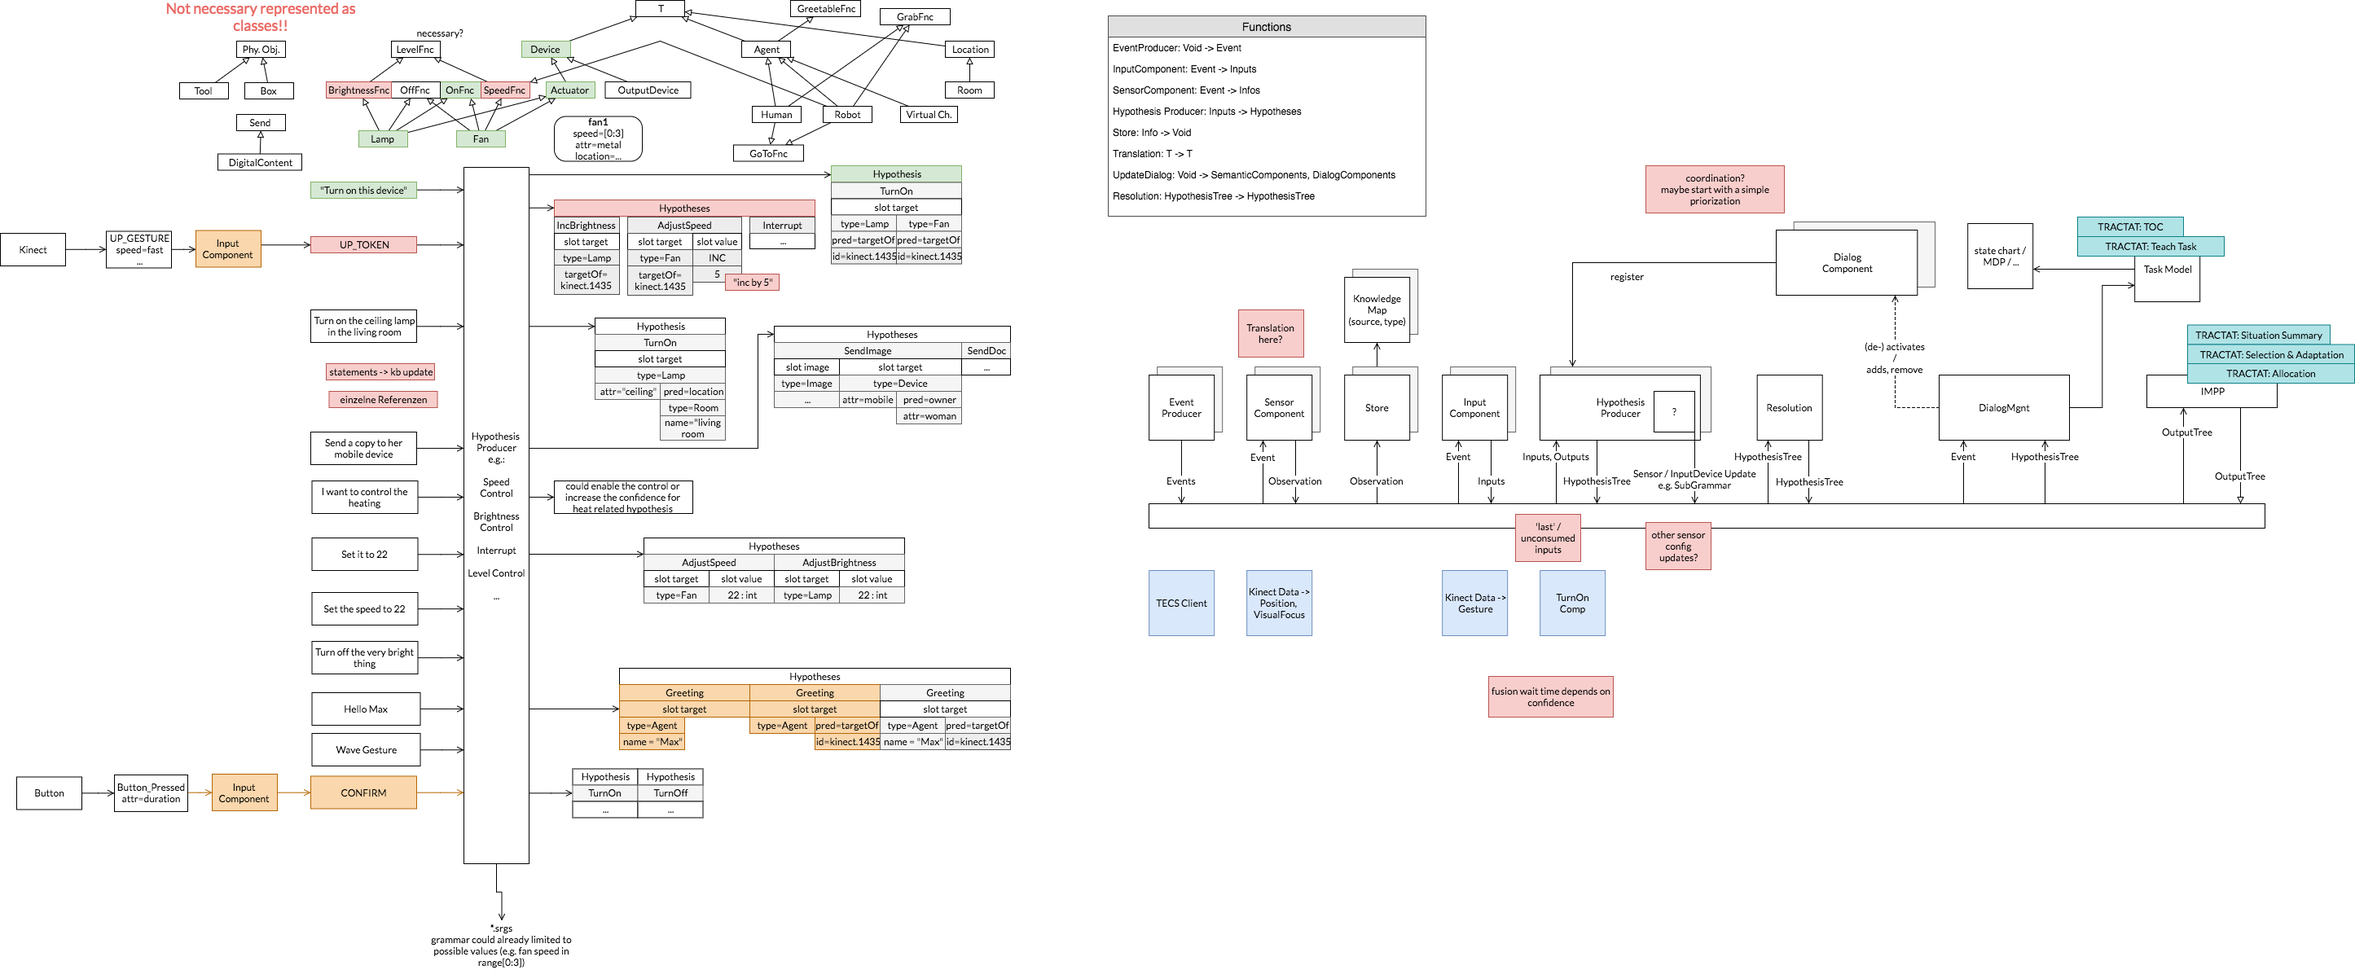
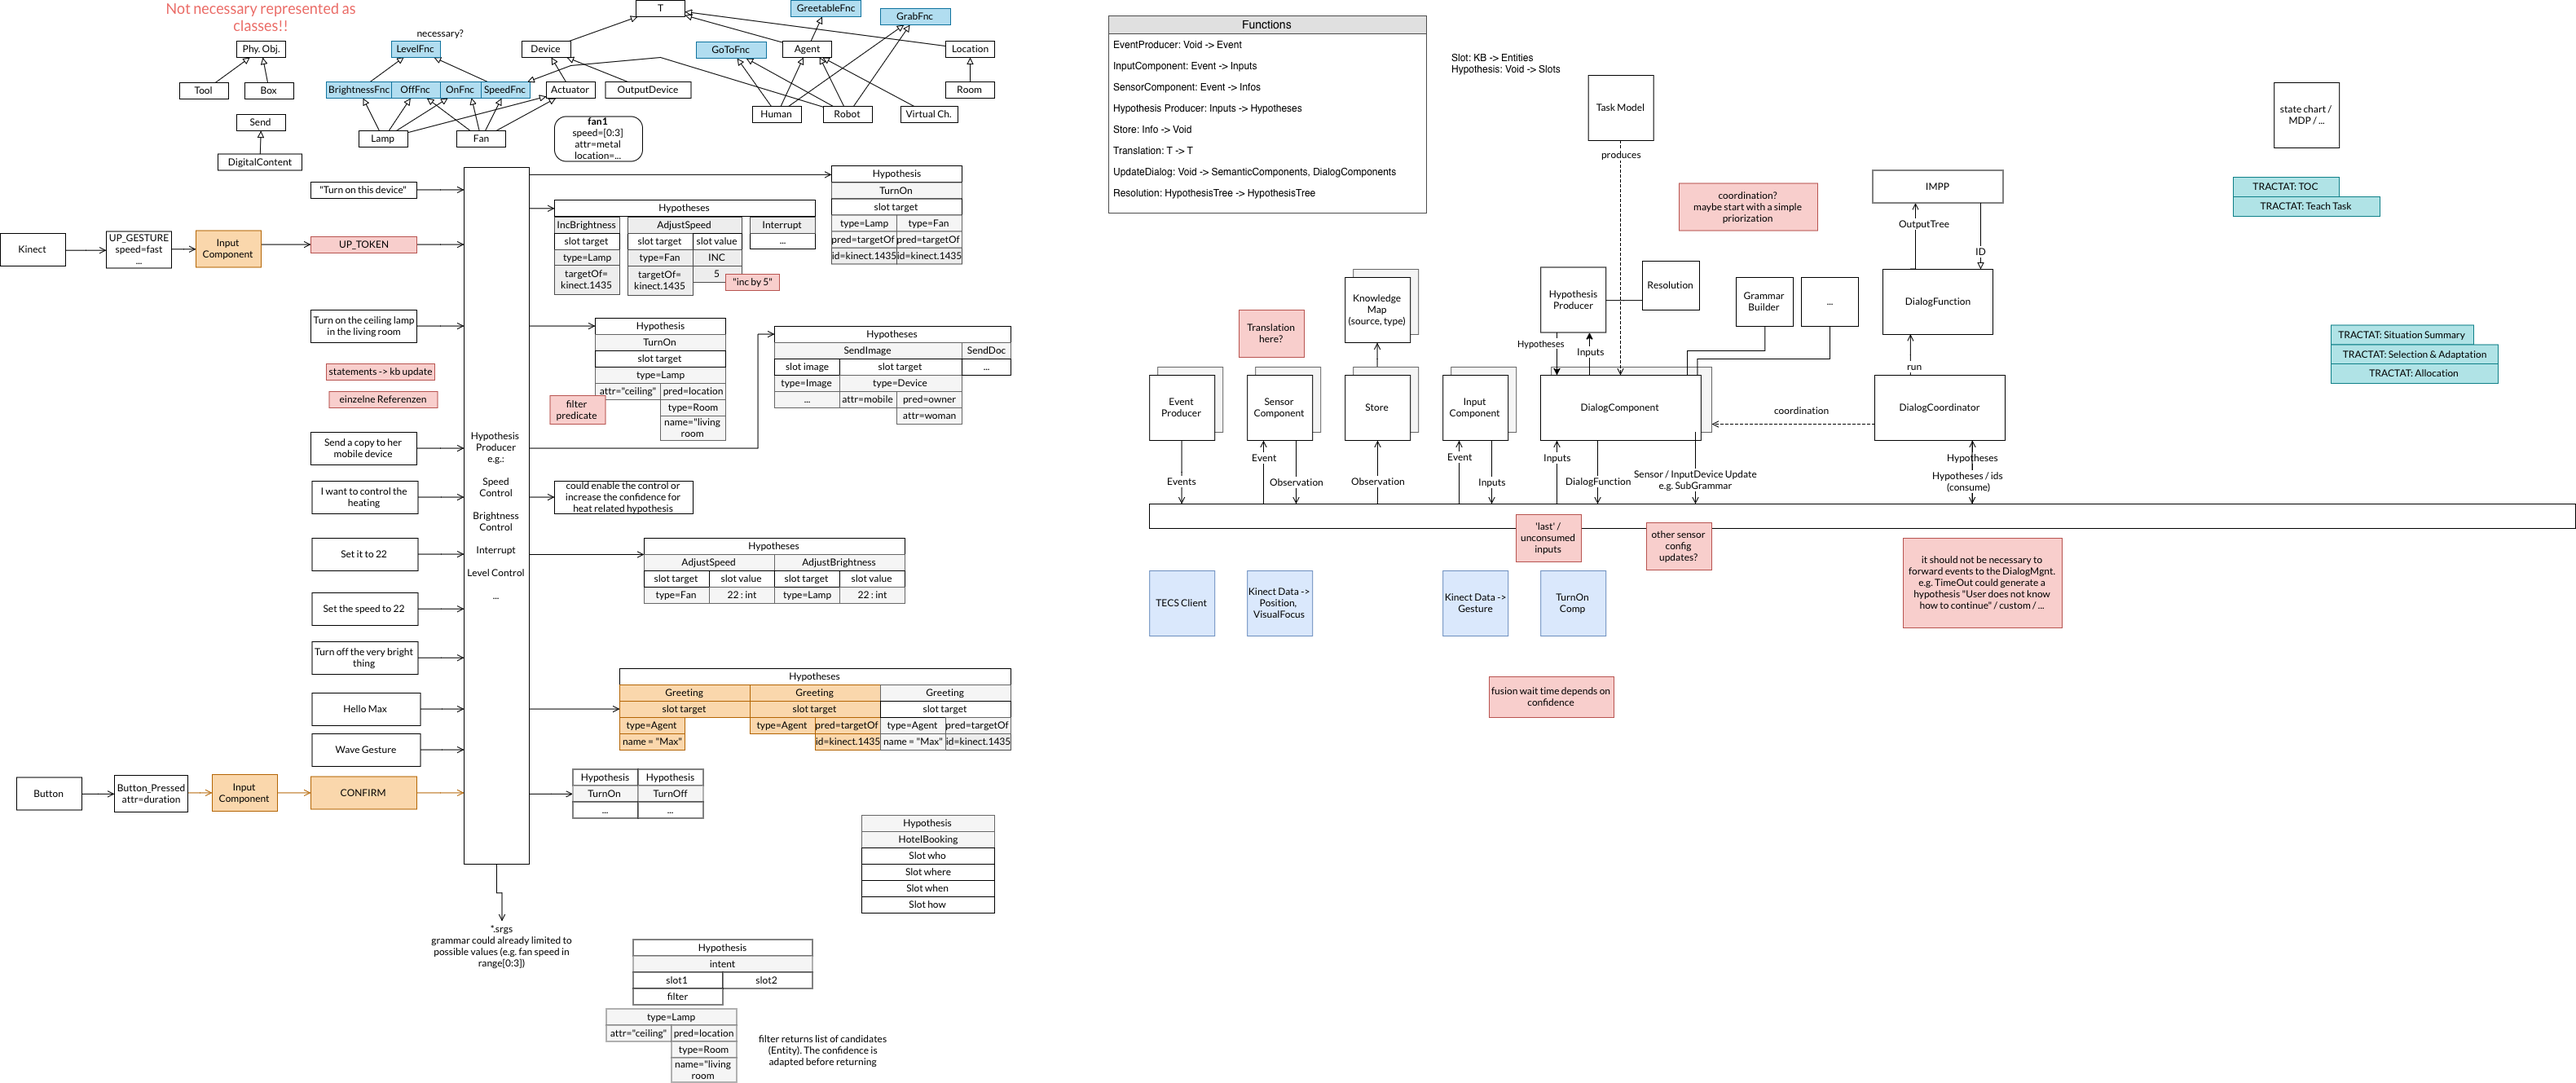
.

diff --git a/tocalog/core/src/main/java/de/dfki/tocalog/core/Slot.java b/tocalog/core/src/main/java/de/dfki/tocalog/core/Slot.java
@@ -1,22 +1,48 @@
 package de.dfki.tocalog.core;
 
-import de.dfki.tocalog.input.Input;
+import de.dfki.tocalog.kb.KnowledgeBase;
 import de.dfki.tocalog.model.Confidence;
 import de.dfki.tocalog.model.Entity;
 
-import java.util.List;
+import java.util.Arrays;
+import java.util.Collection;
 
 /**
  */
-public interface Slot {
-    Entity consumes(Input input);
-    void consume(Input input);
-    boolean isFilled();
-    //TODO optional?
+public abstract class Slot<T> { // TODO replace T with XYZ<T>
+    public String name;
 
-    interface Entity {
-        Confidence getConfidence();
-        Object getObject();
-        Slot getSlot();
+    public Slot() {
     }
+
+    public String getName() {
+        return name;
+    }
+
+    public abstract Collection<T> findMatches();
+
+    public static class Candidate<T> {
+        private T candidate;
+        private Confidence confidence;
+    }
+
+//    public static void main(String[] args) {
+//        KnowledgeBase kb;
+//        Slot<String> citySlot = new Slot<String>() {
+//            @Override
+//            public Collection<String> findMatches() {
+//                kb.getKnowledgeMap().
+//                return Arrays.asList("SB, NYC, sfsd");
+//            }
+//        };
+//
+//        DeviceSlot slot = new DeviceSlot(kb) {
+//            public Collection<Device> filter(Collection<Device> devices) {
+//                //filter
+//            }
+//        }
+//
+//        DateSlot, NumberSlot, LocationSlot;
+//
+//    }
 }

diff --git a/tocalog/sandbox/src/main/java/de/dfki/tocalog/HotelBookingDC.java b/tocalog/sandbox/src/main/java/de/dfki/tocalog/HotelBookingDC.java
@@ -1,10 +1,10 @@
 package de.dfki.tocalog;
 
+import a.Slot;
 import de.dfki.tocalog.core.*;
 import de.dfki.tocalog.input.Input;
 import de.dfki.tocalog.input.TextInput;
 import de.dfki.tocalog.kb.KnowledgeBase;
-import de.dfki.tocalog.model.Confidence;
 import de.dfki.tocalog.output.Imp;
 import de.dfki.tocalog.output.SpeechOutput;
 import de.dfki.tocalog.output.impp.Allocation;
@@ -30,7 +30,7 @@ public class HotelBookingDC implements DialogComponent {
     }
 
     protected Optional<DialogFunction> onTimeout(Object timeout) {
-
+        throw new RuntimeException("not impl");
     }
 
     protected Optional<DialogFunction> onTextInput(TextInput textInput) {
@@ -48,7 +48,7 @@ public class HotelBookingDC implements DialogComponent {
                     List<Slot.Entity> slotCandidates = getSlotCandidates(textInput);
                     slotCandidates.forEach(sc -> sc.getSlot().consume(textInput));
                 }
-            };
+            });
         }
 
 //        super.requestYesNo("...");
@@ -88,7 +88,6 @@ public class HotelBookingDC implements DialogComponent {
 //
 //
 
-        return Optional.empty();
     }
 
     protected List<Slot.Entity> getSlotCandidates(Input input) {

diff --git a/tocalog/core/src/main/java/de/dfki/tocalog/core/DialogApp.java b/tocalog/core/src/main/java/de/dfki/tocalog/core/DialogApp.java
@@ -1,5 +1,6 @@
 package de.dfki.tocalog.core;
 
+import a.Resolution;
 import de.dfki.tocalog.input.Input;
 import de.dfki.tocalog.kb.KnowledgeBase;
 import de.dfki.tocalog.output.Imp;
@@ -16,7 +17,7 @@ import java.util.function.Predicate;
  */
 public class DialogApp implements Runnable {
     private static final Logger log = LoggerFactory.getLogger(DialogApp.class);
-    private static final long INPUT_TIMEOUT = 5000L;
+    private static final long INPUT_TIMEOUT = 20000L;
     private final KnowledgeBase knowledgeBase;
     private final List<EventProducer> eventProducers;
     private final List<SensorComponent> sensorComponents;
@@ -122,7 +123,7 @@ public class DialogApp implements Runnable {
         private Resolution resolution;
         private Object monitor = new Object();
         private List<DialogComponent> dialogComponents = new ArrayList<>();
-        private DialogCoordinator dialogCoordinator;
+        private DialogCoordinator dialogCoordinator = new SimpleDialogCoordinator();
 
 
         protected Builder() {

diff --git a/tocalog/core/src/main/java/de/dfki/tocalog/core/Hypothesis.java b/tocalog/core/src/main/java/de/dfki/tocalog/core/Hypothesis.java
@@ -2,7 +2,6 @@ package de.dfki.tocalog.core;
 
 import de.dfki.tocalog.input.Input;
 import de.dfki.tocalog.kb.KnowledgeBase;
-import de.dfki.tocalog.model.Device;
 import de.dfki.tocalog.model.Entity;
 
 import java.util.*;
@@ -52,25 +51,15 @@ public class Hypothesis {
         return count;
     }
 
+    /**
+     * @return The inputs this hypothesis is based on.
+     */
     public Set<String> getInputs() {
         return inputs;
     }
 
     interface Query<T extends Entity> {
         Collection<T> findMatches(KnowledgeBase kb);
-    }
-
-    public static abstract class Slot<T extends Entity> {
-        private String name;
-
-        public Slot() {
-        }
-
-        public String getName() {
-            return name;
-        }
-
-        public abstract Collection<T> findMatches(KnowledgeBase kb);
     }
 
     public static Builder build(String intent) {

diff --git a/tocalog/core/src/main/java/de/dfki/tocalog/core/SimpleDialogCoordinator.java b/tocalog/core/src/main/java/de/dfki/tocalog/core/SimpleDialogCoordinator.java
@@ -1,0 +1,24 @@
+package de.dfki.tocalog.core;
+
+import java.util.ArrayList;
+import java.util.Collections;
+import java.util.Comparator;
+import java.util.List;
+import java.util.stream.Collectors;
+
+/**
+ */
+public class SimpleDialogCoordinator implements DialogCoordinator {
+    @Override
+    public List<DialogFunction> coordinate(List<DialogFunction> dialogFunctions) {
+        List<DialogFunction> sortedDf = dialogFunctions.stream()
+                .sorted(Comparator.comparingDouble(df -> df.getConfidence().getConfidence()))
+                .collect(Collectors.toList());
+        if (sortedDf.isEmpty()) {
+            return Collections.EMPTY_LIST;
+        }
+        ArrayList<DialogFunction> result = new ArrayList<>();
+        result.add(sortedDf.get(sortedDf.size() - 1));
+        return result;
+    }
+}

diff --git a/tocalog/core/src/main/java/de/dfki/tocalog/model/PersonHandler.java b/tocalog/core/src/main/java/de/dfki/tocalog/model/PersonHandler.java
@@ -1,0 +1,31 @@
+package de.dfki.tocalog.model;
+
+import java.util.HashMap;
+import java.util.Map;
+import java.util.Optional;
+
+/**
+ */
+public class PersonHandler {
+
+    public static Optional<Integer> findAge(Map<String, Object> data) {
+        return Optional.ofNullable(getAge(data));
+    }
+
+    public static Integer getAge(Map<String, Object> data) {
+        return (Integer) data.get("age");
+    }
+    public static void setAge(Map<String, Object> data, int age) {
+        data.put("age", age);
+    }
+
+    public static void main(String[] args) {
+        Map<String, Object> person = new HashMap<>();
+        Map<String, Object> building = new HashMap<>();
+        setAge(building, 123);
+
+        if(findAge(person).orElse(0) > 240) {
+            //
+        }
+    }
+}

diff --git a/tocalog/core/src/main/java/de/dfki/tocalog/core/DialogFunction.java b/tocalog/core/src/main/java/de/dfki/tocalog/core/DialogFunction.java
@@ -7,18 +7,22 @@ import java.util.Collection;
 import java.util.Optional;
 
 /**
+ * TODO more meta-info, uses IMP;
  */
 public interface DialogFunction extends Runnable {
-    default Optional<Confidence> getConfidence() { //TODO maybe
-        return Optional.empty();
+    default Confidence getConfidence() {
+        return new Confidence(0.5); //TODO value
     }
 
-    default Optional<Confidence> getPriorty() { return Optional.empty(); }
+//    default Optional<Confidence> getPriorty() { return Optional.empty(); }
 
     /**
      * @return All inputs that will be / were consumed by this dialog function
      */
     Collection<Input> consumedInputs();
 
+    /**
+     * @return The object which created the DialogFunction e.g. DialogComponent
+     */
     Object getOrigin();
 }

diff --git a/tocalog/sandbox/src/main/java/de/dfki/tocalog/LightControlComponent.java b/tocalog/sandbox/src/main/java/de/dfki/tocalog/LightControlComponent.java
@@ -38,7 +38,7 @@ public class LightControlComponent implements DialogComponent {
             return Optional.empty();
         }
 
-        Optional<Hypothesis.Slot> slot = h.getSlot("target");
+        Optional<Slot> slot = h.getSlot("target");
         if (!slot.isPresent()) {
             log.warn("could find slot 'target' in {} for {}", h, this.getClass().getSimpleName());
             return Optional.empty();
@@ -57,11 +57,7 @@ public class LightControlComponent implements DialogComponent {
             return Optional.empty();
         }
 
-        return Optional.of(() -> {
-            for (Device device : devices) {
-                log.info("turning on \"{}\"", device);
-            }
-        });
+        return null;
     }
 
     protected void handleTurnOn() {

diff --git a/tocalog/core/src/main/java/de/dfki/tocalog/model/Confidence.java b/tocalog/core/src/main/java/de/dfki/tocalog/model/Confidence.java
@@ -21,8 +21,10 @@ public class Confidence implements Comparable<Confidence>{
         return confidence;
     }
 
-    public static Confidence HIGH = new Confidence(0.9);
-    public static Confidence VERY_HIGH = new Confidence(1.0);
+    public static final Confidence HIGH = new Confidence(0.9);
+    public static final Confidence VERY_HIGH = new Confidence(1.0);
+//    public static final Confidence UNKNOWN = new Confidence(0);
+
 
     @Override
     public int compareTo(Confidence o) {

diff --git a/tocalog/core/src/main/java/de/dfki/tocalog/output/impp/Allocation.java b/tocalog/core/src/main/java/de/dfki/tocalog/output/impp/Allocation.java
@@ -23,9 +23,12 @@ public class Allocation {
         return allocationState;
     }
 
-    public void updateAllocationState() {
+    protected void updateAllocationState() {
         AllocationStateVisitor asv = new AllocationStateVisitor();
-        this.allocationState = asv.visit(this);
+        AllocationState as = asv.visit(this);
+        synchronized (this) {
+            this.allocationState = as;
+        }
     }
 
     public Map<String, String> getAllocationsIds() {

diff --git a/tocalog/core/src/main/java/de/dfki/tocalog/output/Imp.java b/tocalog/core/src/main/java/de/dfki/tocalog/output/Imp.java
@@ -21,6 +21,15 @@ public class Imp {
 //        root.
     }
 
+    public void cancel(Allocation allocation) {
+        //TODO impl
+    }
+
+    public Allocation allocation(Output output) {
+        //TODO
+        return null;
+    }
+
     public Allocation allocate(OutputNode output) { //TODO OutputRequest? what, when, whom? how?
         //output = copyVisitor.copy(output).build();
 

diff --git a/tocalog/core/src/main/java/a/Slot.java b/tocalog/core/src/main/java/a/Slot.java
@@ -1,0 +1,19 @@
+package a;
+
+import de.dfki.tocalog.input.Input;
+import de.dfki.tocalog.model.Confidence;
+
+/**
+ */
+public interface Slot {
+    Entity consumes(Input input);
+    void consume(Input input);
+    boolean isFilled();
+    //TODO optional?
+
+    interface Entity {
+        Confidence getConfidence();
+        Object getObject();
+        Slot getSlot();
+    }
+}
